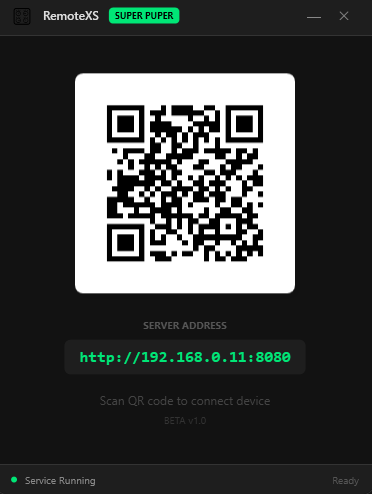
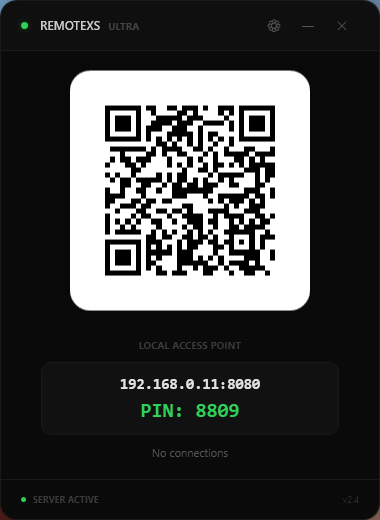
Update README.md for .NET 8 and enhance feature descriptions; replace images for updated interfaces

diff --git a/README.md b/README.md
@@ -7,7 +7,7 @@
 ![Version](https://img.shields.io/badge/version-v2.4-blue?style=flat-square)
 ![License](https://img.shields.io/badge/license-MIT-green?style=flat-square)
 ![Platform](https://img.shields.io/badge/platform-Windows%2010%2F11-blue?style=flat-square)
-![Tech](https://img.shields.io/badge/built%20with-.NET%206%20WPF-purple?style=flat-square)
+![Tech](https://img.shields.io/badge/built%20with-.NET%208%20WPF-purple?style=flat-square)
 
 </div>
 
@@ -15,33 +15,40 @@
 
 ## 📸 Screenshots
 
-| **PC Server Interface** | **Mobile Interface (Media)** | **Mobile Interface (Mixer)** |
+| **PC Server Interface** | **Mobile Interface (Media)** | **Mobile Interface (Keyboard)** |
 |:---:|:---:|:---:|
-| <img src="https://raw.githubusercontent.com/nrksu1tan/remotexs-pc-controller/refs/heads/main/XrdRemote/preview/111.png" width="400" alt="PC Server App"> | <img src="https://raw.githubusercontent.com/nrksu1tan/remotexs-pc-controller/refs/heads/main/XrdRemote/preview/222.png" width="200" alt="Mobile Media Control"> | <img src="https://raw.githubusercontent.com/nrksu1tan/remotexs-pc-controller/refs/heads/main/XrdRemote/preview/333.png" width="200" alt="Mobile Mixer Control"> |
+| <img src="https://raw.githubusercontent.com/nrksu1tan/remotexs-pc-controller/refs/heads/main/XrdRemote/preview/111.png" width="400" alt="PC Server App"> | <img src="https://raw.githubusercontent.com/nrksu1tan/remotexs-pc-controller/refs/heads/main/XrdRemote/preview/222.png" width="200" alt="Mobile Media Control"> | <img src="https://raw.githubusercontent.com/nrksu1tan/remotexs-pc-controller/refs/heads/main/XrdRemote/preview/333.png" width="200" alt="Mobile Keyboard Control"> |
 
 ---
 
 ## ✨ Features
 
-### 🎵 **Media Control**
-* **Now Playing:** Visualizes current track title, artist, and high-res album art (fetched via Windows Media API).
-* **Playback:** Play, Pause, Next, Previous track controls.
-* **System Audio:** Master volume slider and instant Mute toggle.
-* **Immersive UI:** Apple-style background blur transitions based on album art.
+### 🔒 **Security & Connection**
+* **Smart Auth:** Secure 4-digit PIN system.
+* **Auto-Discovery:** Built-in LAN scanner finds your PC automatically without QR codes.
+* **Real-Time Sync:** Powered by WebSockets for zero-latency UI updates.
+* **Anti-Bruteforce:** Rate-limiting and session whitelisting.
 
-### 🎚 **Application Mixer**
-* **Per-App Volume:** Granular control over specific apps (Chrome, Spotify, Discord, Games, etc.).
-* **Live Icons:** Automatically fetches and renders icons for active processes.
+### 🎵 **Media Control & Timeline**
+* **Now Playing:** High-res album art and track info (via Windows Media API).
+* **Timeline Scrubbing:** Smoothly seek through tracks in real-time.
+* **Immersive UI:** Apple Music-style dynamic background blur and glassmorphism.
 
-### 🖱 **Mouse & Trackpad**
-* **Multi-touch Trackpad:** Smooth cursor movement with 1:1 responsiveness.
-* **Gestures:** Two-finger scrolling (Natural Scrolling supported).
-* **Mouse Emulation:** Dedicated Left and Right click buttons.
+### 🎚 **Live Application Mixer**
+* **Per-App Volume:** Granular control over specific apps (Chrome, Spotify, Games).
+* **2-Way Sync:** Phone sliders update instantly if volume is changed on the PC.
+
+### 🖱 **Smart Trackpad & Haptics**
+* **Tactile Feedback:** Native iOS haptics (Light/Medium/Heavy) for physical-like clicks.
+* **Gestures:** 2-finger scrolling, hold for right-click.
+
+### 📋 **Productivity Tools**
+* **Clipboard Sync:** 2-way text copy/paste between your PC and smartphone.
+* **Presentation Mode:** Swipe gestures to change slides, quick actions (F5, Esc, Blank screen).
 
 ### 💻 **System Integration**
-* **PWA Ready:** Works directly in the browser (Chrome/Safari).
+* **PWA Ready:** Works directly in the browser, feels like a native app.
 * **System Tray:** Minimizes quietly to the tray area to keep your desktop clean.
-* **Quick Pairing:** Instant connection via QR Code scanning.
 * **Portable:** Runs as a single `.exe` file. No installation wizard.
 
 ---
@@ -54,39 +61,39 @@
 
 ### 📥 Installation (User)
 
-1.  Download the latest `XrdRemote.exe` from the [Releases page](#).
-2.  Run the application on your PC.
-3.  **Scan the QR code** shown in the app with your phone's camera.
+1. Download the latest `XrdRemote.exe` from the [Releases page](#).
+2. Run the application on your PC.
+3. Open the app on your phone (via QR scan or browser) and enter the **4-digit PIN** displayed on your PC, or use the **Scan Network** button to connect automatically.
 
 > [!WARNING]
 > **First Run:** When prompted, you **must allow access** in the Windows Firewall popup (check "Private Networks") so your phone can connect to the PC.
 
 ### 👨💻 Installation (Developer)
 
-1.  Clone the repository:
-    ```bash
-    git clone https://github.com/nrksu1tan/remotexs-pc-controller.git
-    ```
-2.  Open the solution in **Visual Studio** or **VS Code**.
-3.  Restore dependencies:
-    ```bash
-    dotnet restore
-    ```
-4.  Run the project:
-    ```bash
-    dotnet run
-    ```
+1. Clone the repository:
+   ```bash
+   git clone [https://github.com/nrksu1tan/remotexs-pc-controller.git](https://github.com/nrksu1tan/remotexs-pc-controller.git)
+   ```
+2. Open the solution in **Visual Studio** or **VS Code**.
+3. Restore dependencies:
+   ```bash
+   dotnet restore
+   ```
+4. Run the project:
+   ```bash
+   dotnet run
+   ```
 
 ---
 
 ## 🛠 Tech Stack
 
-* **Backend:** C# (.NET 6.0 WPF)
-* **Web Server:** `HttpListener` (Self-hosted, Zero dependencies)
-* **Frontend:** HTML5, CSS3 (Glassmorphism UI), Vanilla JS
+* **Backend:** C# (.NET 8.0 WPF)
+* **Networking:** `HttpListener` & `WebSockets` (Self-hosted, Zero dependencies)
+* **Frontend:** HTML5, CSS3, Vanilla JS
 * **Audio API:** `NAudio` (CoreAudioApi)
 * **Media API:** `Windows.Media.Control` (WinRT)
-* **Visuals:** Lucide Icons
+* **Visuals & Haptics:** Pure inline SVGs, `ios-vibrator-pro-max`
 
 ---
 
@@ -96,3 +103,4 @@ To build a standalone single-file executable (no .NET runtime required on the ta
 
 ```bash
 dotnet publish -c Release -r win-x64 /p:PublishSingleFile=true /p:IncludeNativeLibrariesForSelfExtract=true
+```
